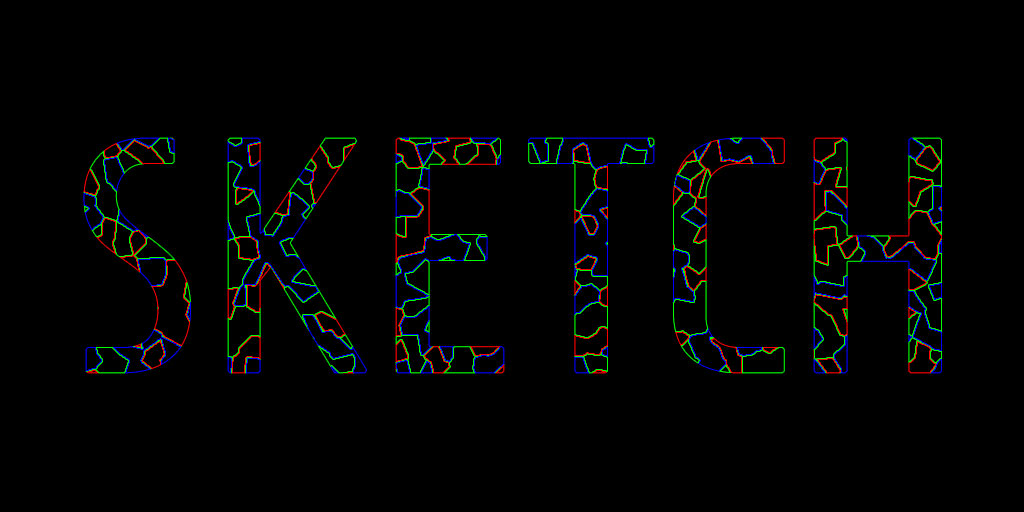
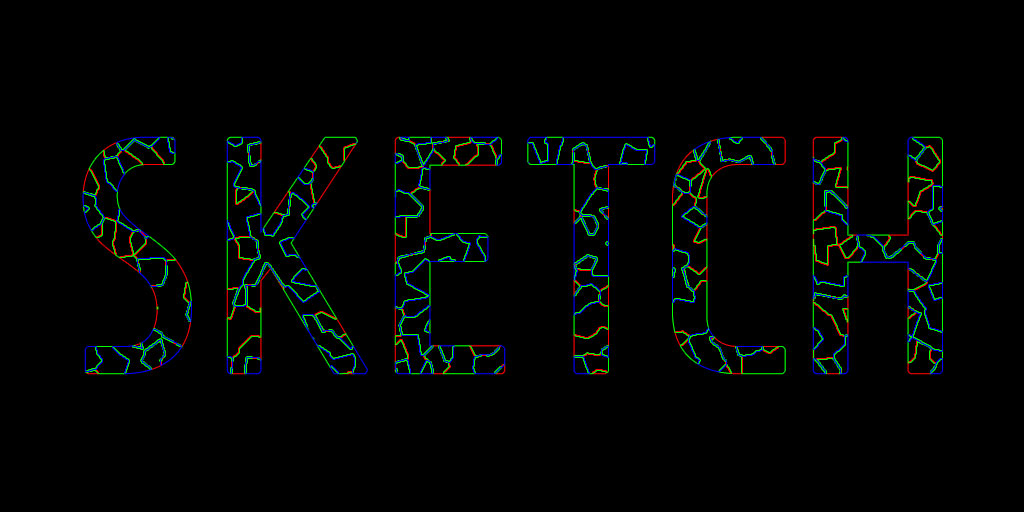
adjusted title object animation.

Changed region(s): [[0.2188, 0.25, 0.9375, 0.75], [0.0625, 0.25, 0.1875, 0.75], [0.5312, 0.5, 0.5938, 0.75]]

diff --git a/webgl/home/index.ts b/webgl/home/index.ts
@@ -51,6 +51,7 @@ export class Sketch {
   }
 
   update(time: number, renderer: THREE.WebGLRenderer): void {
+    renderer.setClearColor(0x000000, 1.0)
     this.title.update(time)
     this.water.update(time)
     this.water.render1(renderer, this.scene, this.camera)
@@ -58,7 +59,6 @@ export class Sketch {
     this.water.render2(renderer, this.scene, this.camera)
     this.title.visible = true
     renderer.setRenderTarget(this.target)
-    renderer.setClearColor(0x000000, 1.0)
     renderer.render(this.scene, this.camera)
   }
 

diff --git a/webgl/home/TitlePlane.ts b/webgl/home/TitlePlane.ts
@@ -29,7 +29,6 @@ export default class TitlePlane extends THREE.Mesh {
       vertexShader: vs,
       fragmentShader: fs,
       transparent: true,
-      blending: THREE.AdditiveBlending,
       depthTest: false,
     })
     super(geometry, material)
